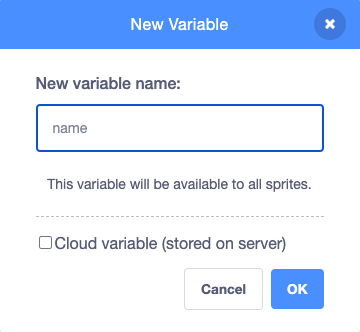
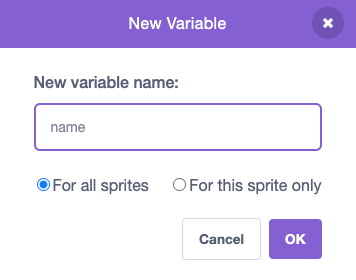
final updates after QA

diff --git a/en/step_5.md b/en/step_5.md
@@ -88,13 +88,13 @@ Change its name (for example `Get conga`):
 
 --- task ---
 
-Delete the **snare drum** from the button costume. 
+Delete the **snare drum** from the new 'Get' button costume. 
 
 --- /task ---
 
 --- task ---
 
-Copy the 'not hit' costume for your new drum and paste it to the button costume. 
+Copy the 'not hit' costume for your new drum and paste it to the new 'Get' button costume. 
 
 --- /task ---
 
@@ -106,7 +106,7 @@ Click on the **Text** tool and change the number to `30` to show the cost of the
 
 --- /task ---
 
-This button should `hide`{:class="block3looks"} at the start.
+Your new 'Get' button should `hide`{:class="block3looks"} at the start.
 
 --- task ---
 
@@ -121,44 +121,30 @@ when flag clicked
 
 --- task ---
 
-Add a `when I receive`{:class="block3events"} script that your new drum button will `show`{:class="block3looks"} when the player unlocks the snare drum.
+Add a `when I receive`{:class="block3events"} script that your new 'Get' button will `show`{:class="block3looks"} when the player unlocks the snare drum.
 
 ```blocks3
 when I receive [snare v] // appear when previous drum is unlocked
-show // show button for next available drum
+show // show button to get the new drum
 ```
 
 --- /task ---
 
 --- task ---
 
-Change the number of beats needed to unlock this drum, and the number of beats that are removed when the player unlocks this drum. 
+Change: 
+- The number of beats needed to unlock this drum
+- The number of beats that are removed when the player unlocks this drum. 
+- The message that is `broadcast`{:class="block3events"} when the player gets the new drum. 
 
 ```blocks3
 when this sprite clicked
 if <(beats)>  [29]> then // change to 29
 hide
 change [beats v] by [-30] // change to -30
-broadcast [conga v]
-else
-say (join ((30) - (beats)) [beats needed!]) for [2] seconds // change to 30
-end
-```
-
---- /task ---
-
---- task ---
-
-Change the message that is `broadcast`{:class="block3events"} when the player gets the new drum. Create a new message with the name of your new drum:
-
-```blocks3
-when this sprite clicked
-if <(beats)>  [29]> then
-hide
-change [beats v] by [-30]
 broadcast [conga v] // change to your drum name
 else
-say (join ((30) - (beats)) [beats needed!]) for [2] seconds
+say [More beats needed!] for [2] seconds 
 end
 ```
 
@@ -166,7 +152,7 @@ end
 
 --- task ---
 
-Change the `when I receive snare`{:class="block3events"} script to `broadcast`{:class="block3events"} the name of your new drum. The drum will `show`{:class="block3looks"} when the player unlocks the new drum:
+Click your new drum sprite and change the `when I receive snare`{:class="block3events"} script to show it when your new drum is unlocked:
 
 ```blocks3
 when I receive [conga v] // change to your drum name

diff --git a/en/step_8.md b/en/step_8.md
@@ -9,17 +9,16 @@ Upgrade your project with more drums and more backdrops as you play more amazing
 </div>
 </div>
 
-There are lots more drum costumes you can add to your project.
+### Add more drums
 
 To add another drum to unlock, look back at the earlier steps of the project.
 
 Here are some reminders if you need them.
 
-
 --- collapse ---
 
 ---
-title: For the **drum**
+title: For the drum
 ---
 
 --- task ---
@@ -51,7 +50,7 @@ Change the `message`{:class="block3events"} that makes the drum `show`{:class="b
 --- collapse ---
 
 ---
-title: For the 'Get' **button**
+title: For the 'Get' button
 ---
 
 --- task ---
@@ -84,7 +83,7 @@ Change the message that is `broadcast`{:class="block3events"} to the name of the
 --- collapse ---
 
 ---
-title: For the **venue**
+title: For the venue
 ---
 
 --- task ---
@@ -111,6 +110,8 @@ You will also need to set their starting position `when flag clicked`{:class="bl
 
 --- /collapse ---
 
+### Improve feedback to the player
+
 Tell the player exactly **how many more** beats are needed to unlock the next drum.
 
 --- task ---
@@ -131,6 +132,8 @@ end
 
 --- /task ---
 
+### Tidy your code
+
 --- task ---
 
 **Tidy:** If you have time, then it's a good idea to make sure the sprites in the sprite list are in a sensible order, starting with the drums in their locked order and then the buttons in order.
@@ -138,6 +141,8 @@ end
 --- /task ---
 
 --- task ---
+
+### Stuck?
 
 **Debug:** First make sure you really understand when the drums and buttons should show and how the `beats`{:class="block3variables"} variable should change. It's much easier to debug a project if you are clear on what it is supposed to do.
 

diff --git a/en/step_4.md b/en/step_4.md
@@ -55,7 +55,7 @@ The next drum is not available when you start the project. It has to be earned w
 
 --- task ---
 
-Add a script to hide the **Drum-snare** sprite at the start of the project:
+Add a script to the **Drum-snare** sprite to hide it at the start of the project:
 
 ```blocks3
 when flag clicked
@@ -76,7 +76,14 @@ Add a button to show which drum is the next and how many beats it will cost.
 
 --- task ---
 
-Change the visibility to **Show** and change its name to `Get snare`. 
+Change the visibility to **Show**.
+![](images/show.png)
+
+--- /task ---
+
+--- task ---
+
+Change its name to `Get snare`. 
 
 --- /task ---
 
@@ -139,24 +146,6 @@ end
 
 --- /task ---
 
-You can tell the player exactly **how many more** beats are needed to unlock the next drum.
-
---- task ---
-
-Add this code to `join`{:class="block3operators"} the number of beats needed with the text you have used to tell the player they need more beats if they do not have enough to unlock the next drum:
-
-```blocks3
-when this sprite clicked
-if <(beats)>  [9]> then //if 10 or more beats
-hide
-change [beats v] by [-10] //take away the cost of upgrade
-else
-+ say (join ((10) - (beats)) [beats needed!]) for [2] seconds
-end
-```
-
---- /task ---
-
 --- task ---
 
 Add a `broadcast`{:class="block3events"} block to send a new `snare` message:
@@ -168,7 +157,7 @@ hide
 change [beats v] by [-10] // take away the cost of upgrade
 + broadcast [snare v] // your drum name
 else
-say (join ((10) - (beats)) [beats needed!]) for [2] seconds
+say [More beats needed!] for [2] seconds
 end
 ```
 

diff --git a/en/step_3.md b/en/step_3.md
@@ -19,7 +19,7 @@ Click **Choose a Sprite** and search `cymbal`.
 
 --- task ---
 
-Add the **Drum-cymbal** sprite and Position it on the Stage:
+Add the **Drum-cymbal** sprite and position it on the Stage:
 
 ![](images/cymbal-stage.png)
 
@@ -60,7 +60,7 @@ The **Drum-cymbal** sprite will earn you one beat each time you click it.
 
 --- task ---
 
-Create a `variable`{:class="block3variables"} called `beats`:
+Create a `variable`{:class="block3variables"} (for all sprites) called `beats`:
 
 ![](images/beats-variable.png)
 

diff --git a/en/step_1.md b/en/step_1.md
@@ -3,7 +3,6 @@
 Make a clicker game where you earn beats to play new drums at bigger venues.
 
 --- no-print ---
---- task ---
 
 <div style="display: flex; flex-wrap: wrap">
 <div style="flex-basis: 175px; flex-grow: 1">  
@@ -16,7 +15,6 @@ How many `beats`{:class="block3variables"} do you earn when clicking the new dru
 </div>
 </div>
 
---- /task ---
 --- /no-print ---
 
 --- print-only ---

diff --git a/en/step_2.md b/en/step_2.md
@@ -15,7 +15,7 @@ Open the [Drum star starter project](https://scratch.mit.edu/projects/535783147/
 
 --- /task ---
 
-The game starts in a bedroom like a DIY artist. 
+The drummer starts in a bedroom like a beginner!
 
 --- task ---
 
